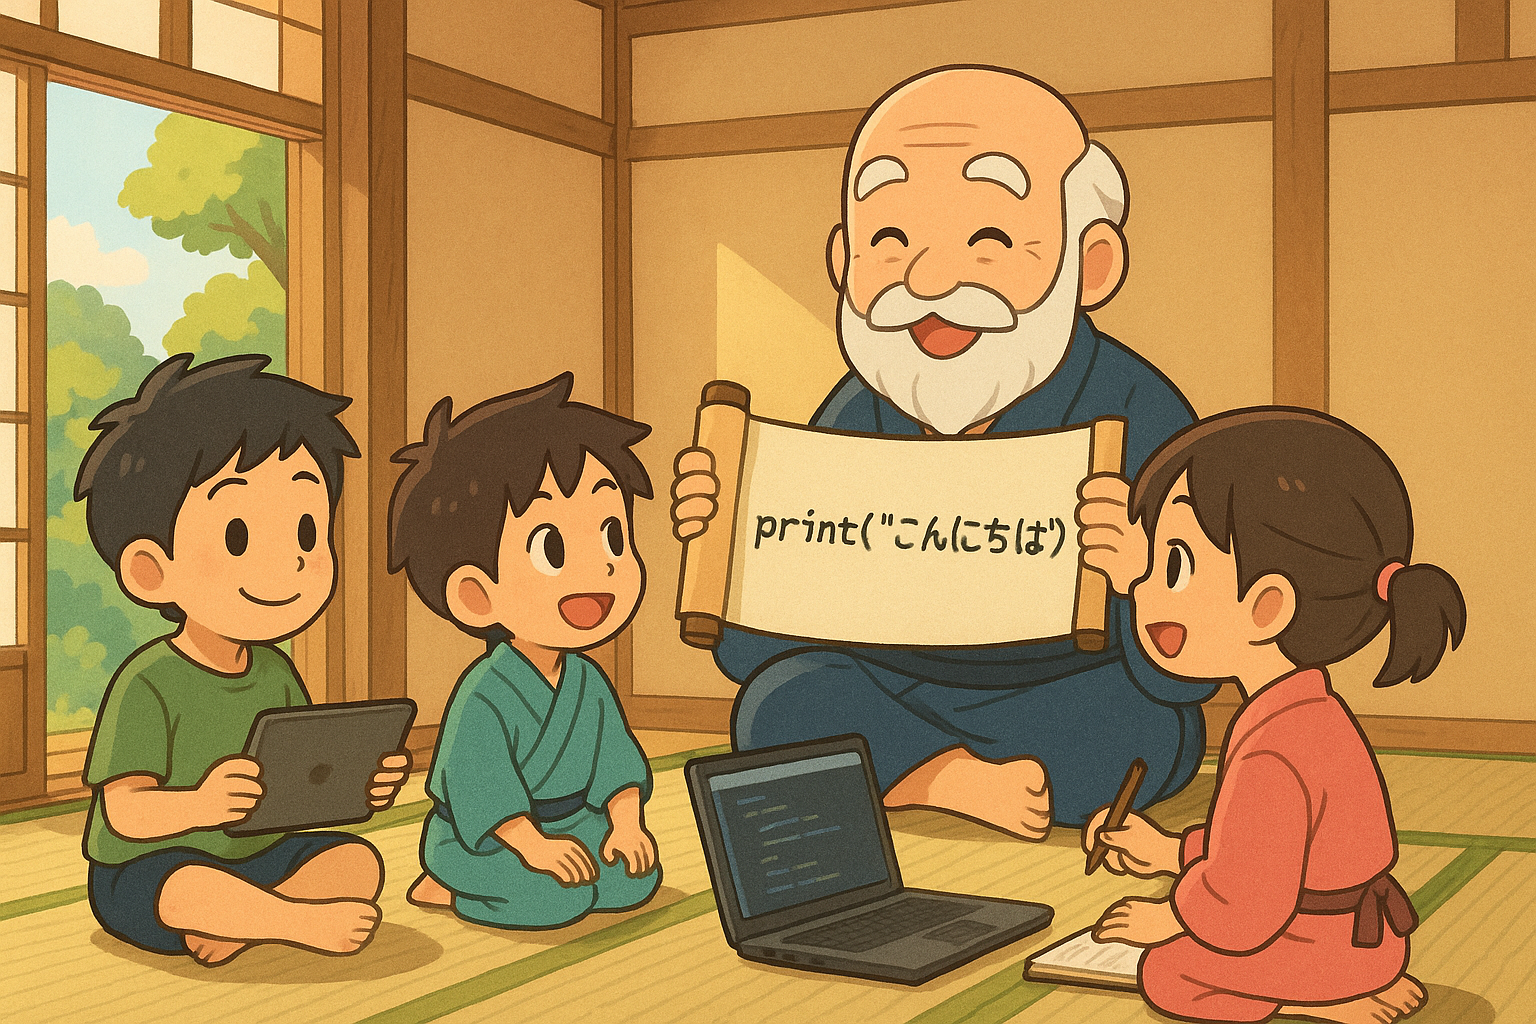
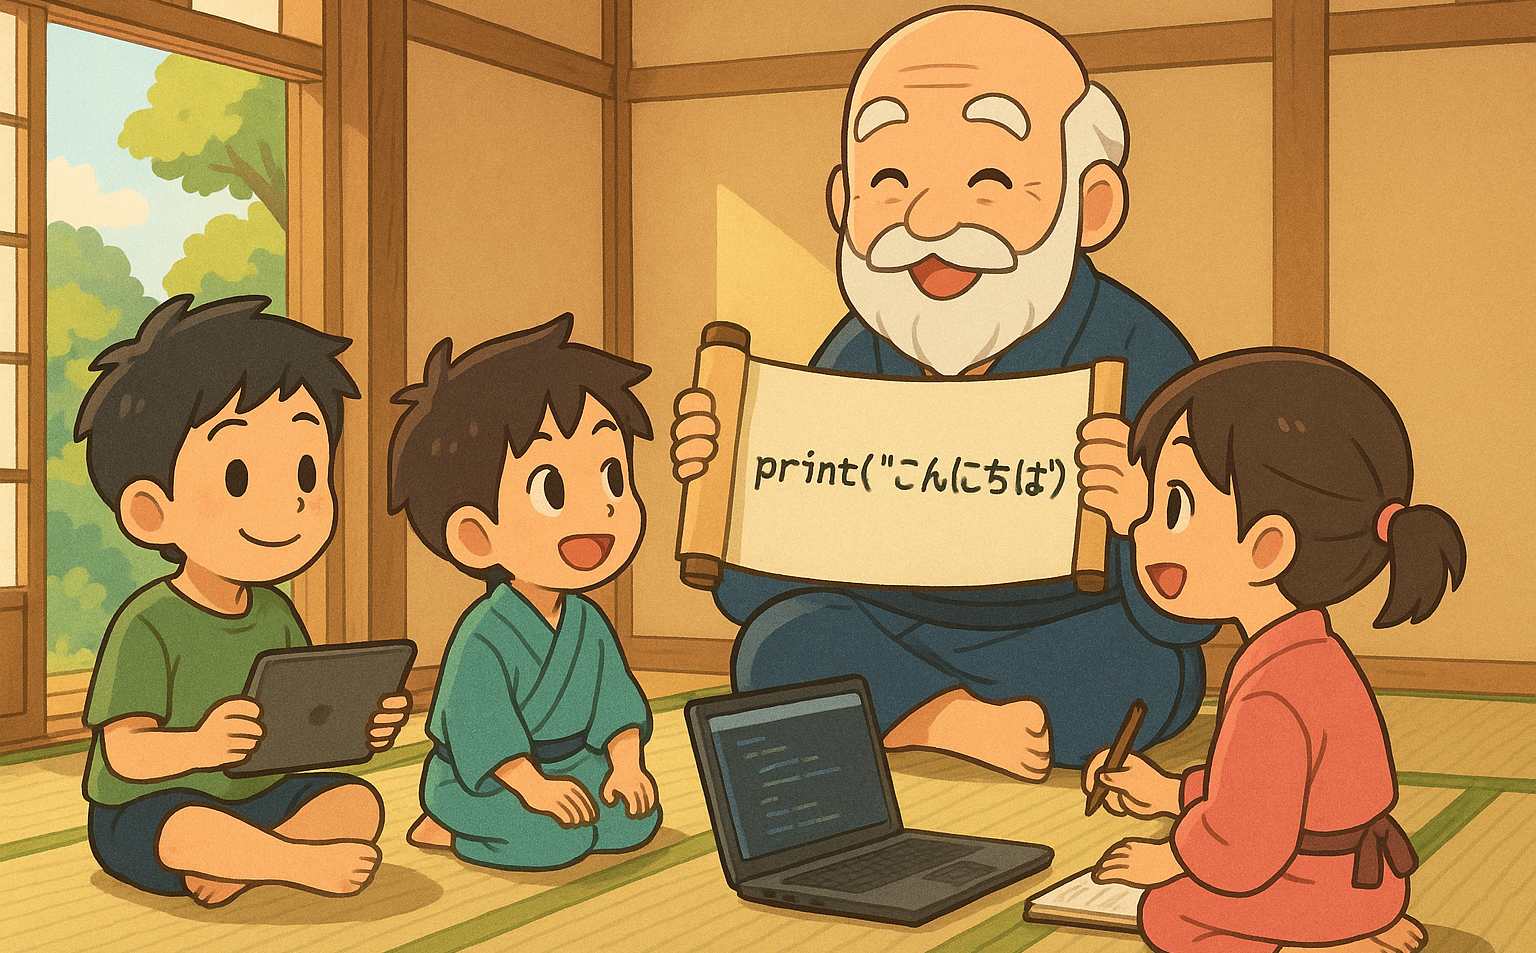
ヒーロー画像の挿入

diff --git a/resources/views/welcome.blade.php b/resources/views/welcome.blade.php
@@ -5,17 +5,18 @@
 
     <div style="
         position: relative;
-        background: url('{{ asset('images/hero.png') }}') no-repeat center top;
+        background: url('{{ asset('images/hero.png') }}') no-repeat center center;
         background-size: cover;
-        height: 95vh;
+        aspect-ratio: 16 / 9;   /* 高さを自然に決める */
         width: 100%;
-        margin-bottom: 2rem;">
+        margin-bottom: 2rem;
+        overflow: hidden;">
 
         {{-- 白のオーバーレイ --}}
         <div style="
             position: absolute;
-            top: 0; left: 0; width: 100%; height: 100%;
-            background-color: rgba(255, 255, 255, 0.4);  /* 白半透明 */
+            inset: 0;
+            background-color: rgba(255, 255, 255, 0.6);  /* 白半透明 */
             z-index: 1;">
         </div>
 
@@ -26,20 +27,27 @@
             left: 50%;
             transform: translate(-50%, -50%);
             z-index: 2;
-            text-align: center;">
+            text-align: center;
+            width: 100%;">
             <h1 class="text-center" style="
-                font-size: clamp(2.5rem, 6vw, 5rem); 
-                font-weight: 500; 
-                color: #17A2B8; 
-                text-shadow: 4px 4px 6px rgba(255, 255, 255, 0.85); 
-                white-space: nowrap;">
+                font-size: clamp(2rem, 6vw, 5rem);
+                font-weight: 500;
+                color: #17A2B8;
+                text-shadow:
+                    -2px -2px 2px rgba(0, 0, 0, 0.9),
+                    4px 4px 7px rgba(255, 255, 255, 0.9);
+                white-space: nowrap;
+                overflow: hidden;
+                text-overflow: ellipsis;
+                max-width: 90%;
+                margin: 0 auto;">
                 <i class="fas fa-chalkboard-teacher pr-2"></i>寺子屋＠プログラミング
             </h1>
         </div>
     </div>
     <div class="container"> {{-- ← 再開 --}}
         <h5 class="description text-center mb-3">"プログラミング"について140字以内で会話しよう！</h5>
-        <form method="GET" action="{{ route('post.index') }}" class="mx-auto mt-4" style="width: 500px;">
+        <form method="GET" action="{{ route('post.index') }}" class="mx-auto mt-4 w-100" style="max-width: 500px;">
         <div class="form-group ">
             <div class="input-group">
                 <input type="text" name="keyword" class="form-control" placeholder="検索"  value="{{ old('keyword', $keyword) }}" autocomplete="on">
